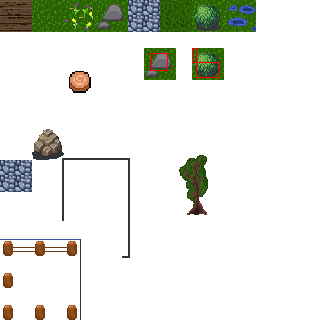
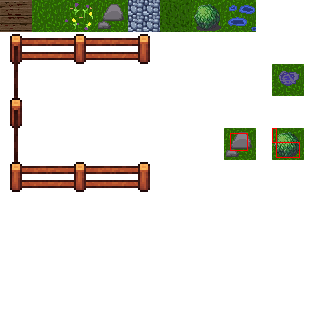
11

diff --git a/src/game.cpp b/src/game.cpp
@@ -70,6 +70,8 @@ Game::Game() :
     view.reset(sf::FloatRect(0, 0, 640, 480));
     hudView.reset(sf::FloatRect(0, 0, 640, 480));
     s_map.setTexture(assets.get("map"));
+    zagon.setTexture(assets.get("map"));
+    zagon.setTextureRect(sf::IntRect(0, 32, 160, 160));
     font.loadFromFile("./assets/fonts/handgeschrieben.ttf");
 
     bool loading = loadLevel("./levels/level2.json");
@@ -110,6 +112,7 @@ bool Game::loadLevel(const std::string& path) {
     levelTime = parser["time"].get<float>();
     std::pair<int, int> playerSpawnCoor = parser["playerSpawn"].get<std::pair<int, int>>();
     std::vector<std::pair<int, int>> sheepSpawnCoor;
+    zagonSpawn = parser["zagonSpawn"].get<std::pair<float, float>>();
     for (const auto& sheepCoor : parser["sheepSpawn"]) {
         sheepSpawnCoor.push_back(sheepCoor.get<std::pair<int, int>>());
     }
@@ -131,6 +134,7 @@ bool Game::loadLevel(const std::string& path) {
     }
 
     player.setPosition(Vector(playerSpawnCoor.first * TILE_SIZE, playerSpawnCoor.second * TILE_SIZE));
+    zagon.setPosition(zagonSpawn.first * 32, zagonSpawn.second * 32);
     sheeps.clear();
     for (const auto& i : sheepSpawnCoor) {
         Sheep sheep(i.first * TILE_SIZE, i.second * TILE_SIZE, 32, 32, assets.get("sheep"));
@@ -161,7 +165,7 @@ bool Game::isSolid(int tx, int ty, bool canPassToZagon) const {
     }
 
     char c = tileMap[ty][tx];
-    return c == '0' || (!canPassToZagon && c == 'i');
+    return c == '0' || c == 'l' || (!canPassToZagon && c == 'i');
 }
 
 bool Game::isInTargetTile(float x, float y, char typeTile) const {
@@ -481,7 +485,7 @@ void Game::renderPlaying() {
     for (int i = 0; i < mapHeight; ++i) {
         for (int j = 0; j < mapWidth; ++j) {
             
-            if (tileMap[i][j] == ' ') {
+            if (tileMap[i][j] == ' ' || tileMap[i][j] == 'i' || tileMap[i][j] == 'l') {
                 s_map.setTextureRect(sf::IntRect(32, 0, 32, 32));
             }
             if (tileMap[i][j] == 's') {
@@ -495,9 +499,6 @@ void Game::renderPlaying() {
             }
             if (tileMap[i][j] == 'd') {
                 s_map.setTextureRect(sf::IntRect(160, 0, 32, 32));
-            }
-            if (tileMap[i][j] == 'i') {
-                s_map.setTextureRect(sf::IntRect(128, 0, 32, 32));
             }
             if (tileMap[i][j] == 't') {
                 s_map.setTextureRect(sf::IntRect(192, 0, 32, 32));
@@ -515,8 +516,7 @@ void Game::renderPlaying() {
     for (int i = 0; i < sheeps.size(); ++i) {
         sheeps[i].draw(window);
     }
-    
-
+    window.draw(zagon);
     player.draw(window);
 
     std::string currLevel = getLevelFromPath(currentLevelForRestart);
@@ -538,7 +538,7 @@ void Game::renderVictory() {
     for (int i = 0; i < mapHeight; ++i) {
         for (int j = 0; j < mapWidth; ++j) {
             
-            if (tileMap[i][j] == ' ') {
+            if (tileMap[i][j] == ' ' || tileMap[i][j] == 'i' || tileMap[i][j] == 'l') {
                 s_map.setTextureRect(sf::IntRect(32, 0, 32, 32));
             }
             if (tileMap[i][j] == 's') {
@@ -552,9 +552,6 @@ void Game::renderVictory() {
             }
             if (tileMap[i][j] == 'd') {
                 s_map.setTextureRect(sf::IntRect(160, 0, 32, 32));
-            }
-            if (tileMap[i][j] == 'i') {
-                s_map.setTextureRect(sf::IntRect(128, 0, 32, 32));
             }
             if (tileMap[i][j] == 't') {
                 s_map.setTextureRect(sf::IntRect(192, 0, 32, 32));
@@ -573,6 +570,7 @@ void Game::renderVictory() {
     for (int i = 0; i < sheeps.size(); ++i) {
         sheeps[i].draw(window);
     }
+    window.draw(zagon);
     player.draw(window);
     window.setView(window.getDefaultView());
     
@@ -622,7 +620,7 @@ void Game::renderDefeat() {
     for (int i = 0; i < mapHeight; ++i) {
         for (int j = 0; j < mapWidth; ++j) {
             
-            if (tileMap[i][j] == ' ') {
+            if (tileMap[i][j] == ' ' || tileMap[i][j] == 'i' || tileMap[i][j] == 'l') {
                 s_map.setTextureRect(sf::IntRect(32, 0, 32, 32));
             }
             if (tileMap[i][j] == 's') {
@@ -636,9 +634,6 @@ void Game::renderDefeat() {
             }
             if (tileMap[i][j] == 'd') {
                 s_map.setTextureRect(sf::IntRect(160, 0, 32, 32));
-            }
-            if (tileMap[i][j] == 'i') {
-                s_map.setTextureRect(sf::IntRect(128, 0, 32, 32));
             }
             if (tileMap[i][j] == 't') {
                 s_map.setTextureRect(sf::IntRect(192, 0, 32, 32));
@@ -657,7 +652,7 @@ void Game::renderDefeat() {
     for (int i = 0; i < sheeps.size(); ++i) {
         sheeps[i].draw(window);
     }
-    
+    window.draw(zagon);
     player.draw(window);
     window.setView(window.getDefaultView());
 
@@ -694,7 +689,7 @@ void Game::renderPause() {
     for (int i = 0; i < mapHeight; ++i) {
         for (int j = 0; j < mapWidth; ++j) {
             
-            if (tileMap[i][j] == ' ') {
+            if (tileMap[i][j] == ' ' || tileMap[i][j] == 'i' || tileMap[i][j] == 'l') {
                 s_map.setTextureRect(sf::IntRect(32, 0, 32, 32));
             }
             if (tileMap[i][j] == 's') {
@@ -708,9 +703,6 @@ void Game::renderPause() {
             }
             if (tileMap[i][j] == 'd') {
                 s_map.setTextureRect(sf::IntRect(160, 0, 32, 32));
-            }
-            if (tileMap[i][j] == 'i') {
-                s_map.setTextureRect(sf::IntRect(128, 0, 32, 32));
             }
             if (tileMap[i][j] == 't') {
                 s_map.setTextureRect(sf::IntRect(192, 0, 32, 32));
@@ -729,7 +721,7 @@ void Game::renderPause() {
     for (int i = 0; i < sheeps.size(); ++i) {
         sheeps[i].draw(window);
     }
-
+    window.draw(zagon);
     player.draw(window);
     window.setView(window.getDefaultView());
 

diff --git a/include/game.h b/include/game.h
@@ -58,6 +58,7 @@ private:
     Player player;
     std::vector<Sheep> sheeps;
     std::vector<Obstacle> obstacles;
+    std::pair<float, float> zagonSpawn;
     int countOfSheepInZagon = 0;
 
     std::string currentLevelForRestart;
@@ -83,6 +84,7 @@ private:
     bool isSoundEnabled = true;
 
     sf::Sprite s_map;
+    sf::Sprite zagon;
     sf::View view;
     sf::View hudView;
 
